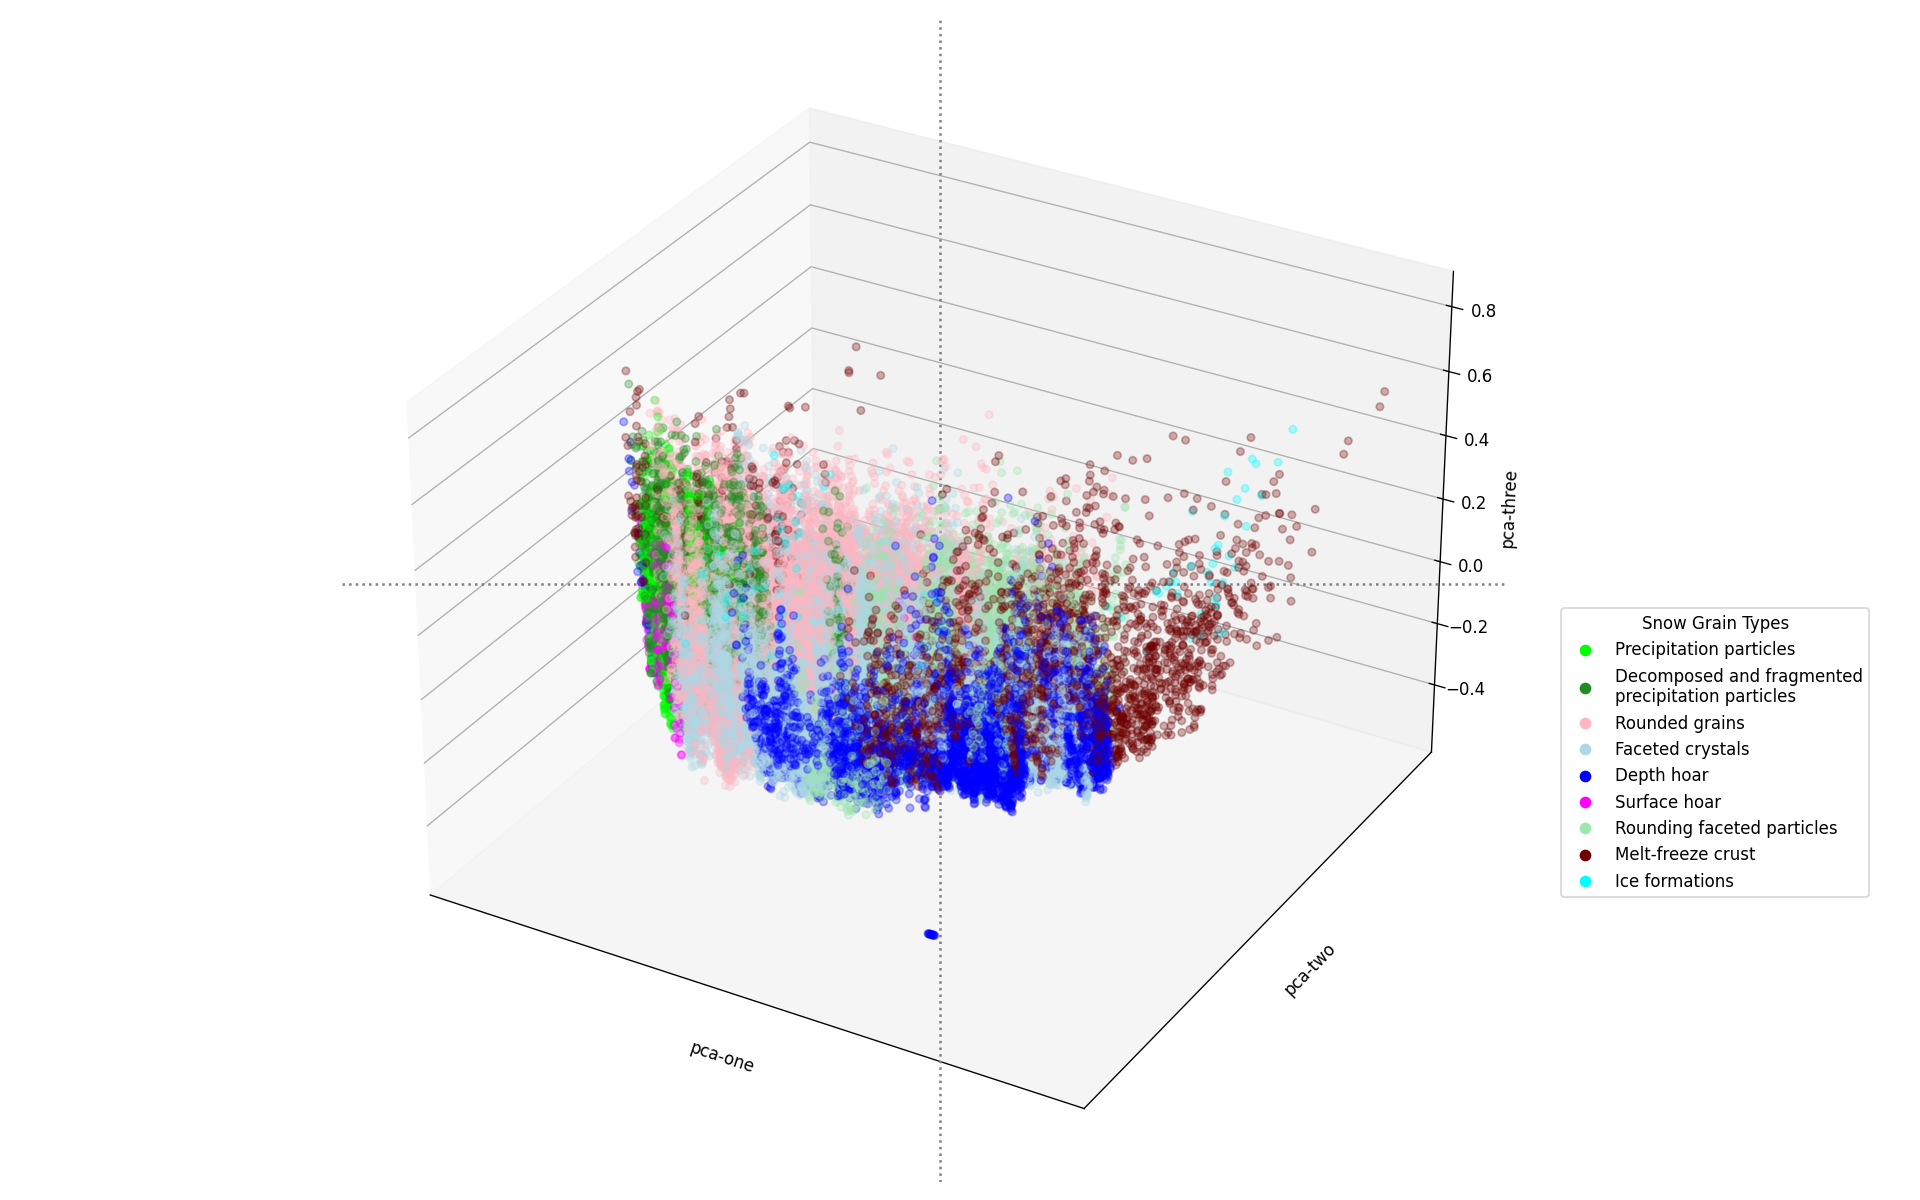
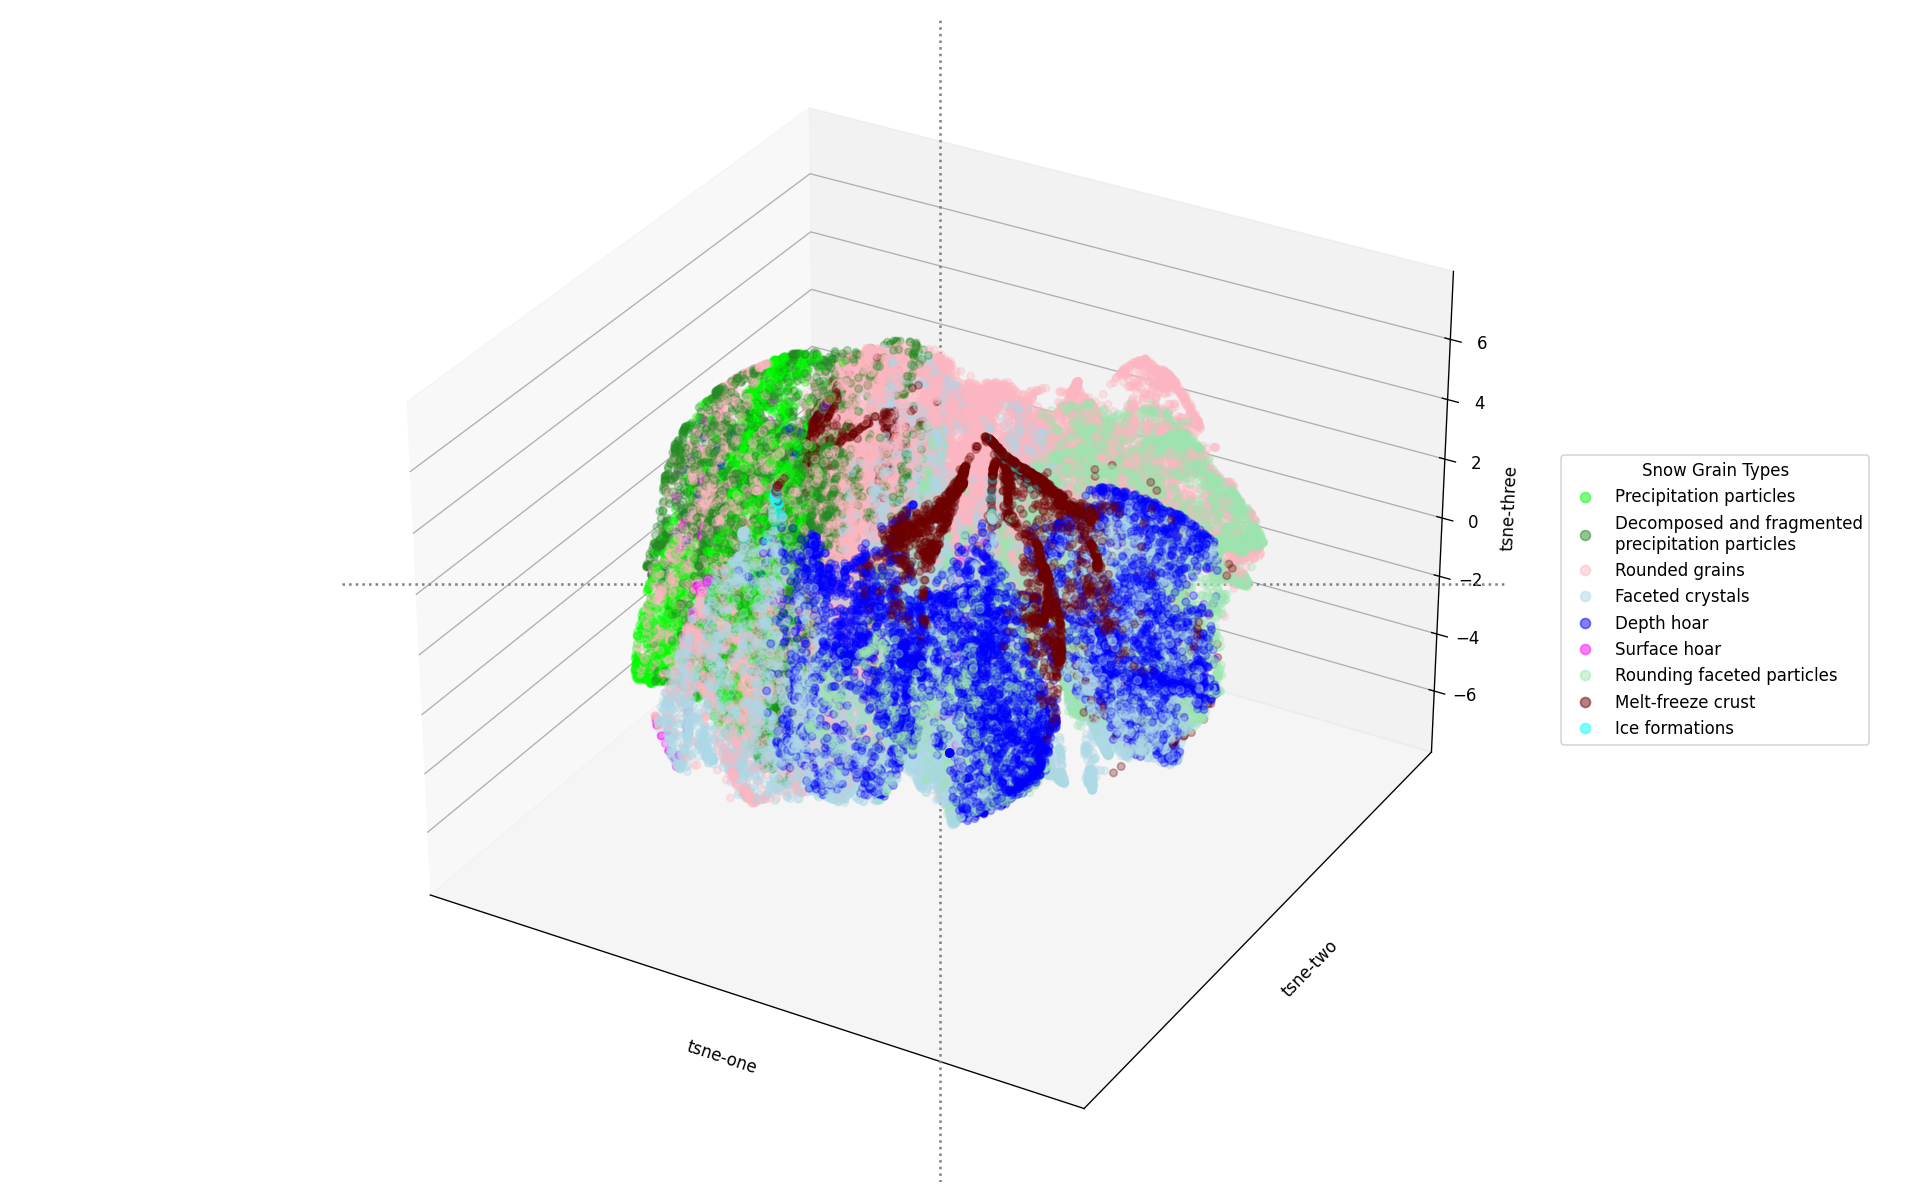
visualization pca, tsne

diff --git a/visualization/run_visualization.py b/visualization/run_visualization.py
@@ -39,31 +39,32 @@ def visualize_normalized_data(smp):
     #plt.rcParams.update({"figure.dpi": 180})
     smp_profile_name = "S36M0335"
     # HOW BALANCED IS THE LABELLED DATASET?
-    plot_balancing(smp, file_name=path+"class_balance_normalized.svg", title=None)
-    # SHOW THE DATADISTRIBUTION OF ALL FEATURES
-    pairwise_features(smp, features=["label", "distance", "var_force", "mean_force", "delta_4", "lambda_4", "gradient"], samples=200, file_name=path+"pairwise_features.png")
-    # SHOW HEATMAP OF ALL FEATURES (with what are the labels correlated the most?)
-    corr_heatmap(smp, labels=[3, 4, 5, 6, 12], file_name=path+"corr_heatmap_all.png") #removed , 16, 17
-    # SHOW HEATMAP BETWEEN FEATURES
-    corr_heatmap(smp, labels=None, file_name=path+"corr_heatmap_features.png")
-    # Correlation does not help for categorical + continuous data - use ANOVA instead
-    # FEATURE "EXTRACTION"
-    anova(smp, file_name=path+"anova.txt", tablefmt="latex_raw") # latex_raw also possible
-    # RANDOM FOREST FEATURE EXTRACTION
-    forest_extractor(smp, file_name=path+"forest_features.txt", plot=False, tablefmt="latex_raw")
-    # PLOT ALL NORMALIZED FEATURES AS LINES IN ONE PROFILE
-    smp_features(smp, smp_name=smp_profile_name, features=["mean_force", "var_force", "min_force_4", "max_force_4", "L_12", "gradient"], file_name=path+smp_profile_name+"_features.png")
-    plt.rcParams.update({"figure.dpi": 250})
-    # PLOT BOGPLOT
-    bog_plot(smp, file_name=path+"bog_plot.png")
-    # PLOT ALL IN ONE PLOT
-    all_in_one_plot(smp, title=None, file_name=path+"overview_data_norm.png", profile_name=smp_profile_name)
+    # plot_balancing(smp, file_name=path+"class_balance_normalized.svg", title=None)
+    # # SHOW THE DATADISTRIBUTION OF ALL FEATURES
+    # pairwise_features(smp, features=["label", "distance", "var_force", "mean_force", "delta_4", "lambda_4", "gradient"], samples=200, file_name=path+"pairwise_features.png")
+    # # SHOW HEATMAP OF ALL FEATURES (with what are the labels correlated the most?)
+    # corr_heatmap(smp, labels=[3, 4, 5, 6, 12], file_name=path+"corr_heatmap_all.png") #removed , 16, 17
+    # # SHOW HEATMAP BETWEEN FEATURES
+    # corr_heatmap(smp, labels=None, file_name=path+"corr_heatmap_features.png")
+    # # Correlation does not help for categorical + continuous data - use ANOVA instead
+    # # FEATURE "EXTRACTION"
+    # anova(smp, file_name=path+"anova.txt", tablefmt="latex_raw") # latex_raw also possible
+    # # RANDOM FOREST FEATURE EXTRACTION
+    # forest_extractor(smp, file_name=path+"forest_features.txt", plot=False, tablefmt="latex_raw")
+    # # PLOT ALL NORMALIZED FEATURES AS LINES IN ONE PROFILE
+    # smp_features(smp, smp_name=smp_profile_name, features=["mean_force", "var_force", "min_force_4", "max_force_4", "L_12", "gradient"], file_name=path+smp_profile_name+"_features.png")
+    # plt.rcParams.update({"figure.dpi": 250})
+    # # PLOT BOGPLOT
+    # bog_plot(smp, file_name=path+"bog_plot.png")
+    # # PLOT ALL IN ONE PLOT
+    # all_in_one_plot(smp, title=None, file_name=path+"overview_data_norm.png", profile_name=smp_profile_name)
 
     # PCA and TSNE
-    pca(smp, n=24, biplot=False, file_name=path)
-    tsne(smp, file_name=path)
-
-    tsne_pca(smp, n=5, file_name=path)
+    #pca(smp, n=24, biplot=False, file_name=path + "pca")
+    #tsne(smp, file_name=path + "tsne")
+    print("finished tsne")
+    tsne_pca(smp, n=5, file_name=path + "tsne_pca")
+    exit(0)
 
 def visualize_original_data(smp):
     """ Visualizing some things of the original data

diff --git a/visualization/plot_profile.py b/visualization/plot_profile.py
@@ -12,7 +12,7 @@ import matplotlib.colors as mcolors
 
 from tqdm import tqdm
 from data_handling.data_preprocessing import idx_to_int
-from data_handling.data_parameters import COLORS, ANTI_LABELS, ANTI_LABELS_LONG, LABELS
+from data_handling.data_parameters import COLORS, ANTI_LABELS, ANTI_LABELS_LONG, LABELS, USED_LABELS
 
 # TODO
 # make function to compare predicted profiles where we dont have the ground truth!
@@ -99,7 +99,7 @@ def ini_bogplots(preds, chosen_profiles, model_name, file_name):
     # producing the legend for the labels
     # remove /n from antilabels
     # Snow Grain Legend
-    all_labels = [6.0, 3.0, 4.0, 12.0, 5.0, 16.0] # no rare
+    all_labels = USED_LABELS # no rare
     anti_colors = {ANTI_LABELS_LONG[key] : value for key, value in COLORS.items() if key in all_labels}
     markers = [plt.Line2D([0,0],[0,0],color=color, marker='o', linestyle='') for color in anti_colors.values()]
 
@@ -287,7 +287,7 @@ def compare_bogplots(all_smps, model_names, file_name="output/results/compare_bo
     # producing the legend for the labels
     # remove /n from antilabels
     # Snow Grain Legend
-    all_labels = [6.0, 3.0, 4.0, 12.0, 5.0] #removed 16,17
+    all_labels = USED_LABELS
     anti_colors = {ANTI_LABELS_LONG[key] : value for key, value in COLORS.items() if key in all_labels}
     # two markers: correct and wrongly predicted
     markers = [(plt.Line2D([0,0],[0,0],color=color, marker='o', linestyle=''), plt.Line2D([0,0],[0,0], color=color, marker='o', linestyle='', alpha=0.25)) for color in anti_colors.values()]
@@ -397,7 +397,7 @@ def compare_model_and_profiles(smp_trues, smp_preds, smp_names, model_names, tit
 
     # Snow Grain Legend
     # grain types
-    all_labels = [6.0, 3.0, 4.0, 12.0, 5.0] #changed here, no labels 16, 17, just removed
+    all_labels = USED_LABELS
     anti_colors = {ANTI_LABELS_LONG[key] : value for key, value in COLORS.items() if key in all_labels}
     markers = [plt.Line2D([0,0],[0,0],color=color, marker='o', linestyle='', alpha=0.5) for color in anti_colors.values()]
     # line markers

diff --git a/visualization/plot_dim_reduction.py b/visualization/plot_dim_reduction.py
@@ -78,7 +78,8 @@ def pca(smp, n=3, dim="both", biplot=True, title="", file_name="output/plots_dat
 
     # 3d plot
     if dim == "3d" or dim == "both":
-        ax = plt.figure(figsize=(16,10)).gca(projection="3d")
+        fig = plt.figure(figsize=(16,10))
+        ax = fig.add_subplot(projection='3d')
         color_labels = [COLORS[label] for label in smp_with_pca["label"]]
         g = ax.scatter(xs=smp_with_pca["pca-one"], ys=smp_with_pca["pca-two"], zs=smp_with_pca["pca-three"], c=color_labels, alpha=0.3)
         ax.set_xlabel("pca-one")
@@ -142,7 +143,8 @@ def tsne(smp, dim="both", title="", file_name="outputs/plots_data/tsne"):
         tsne_results = tsne.fit_transform(x)
         smp_with_tsne = pd.DataFrame({"tsne-one": tsne_results[:, 0], "tsne-two": tsne_results[:, 1], "tsne-three": tsne_results[:, 2], "label": y})
 
-        ax = plt.figure(figsize=(16,10)).gca(projection="3d")
+        fig = plt.figure(figsize=(16,10))
+        ax = fig.add_subplot(projection='3d')
         color_labels = [COLORS[label] for label in smp_with_tsne["label"]]
         ax.scatter(xs=smp_with_tsne["tsne-one"], ys=smp_with_tsne["tsne-two"], zs=smp_with_tsne["tsne-three"], c=color_labels, alpha=0.3)
         ax.set_xlabel("tsne-one")
@@ -207,7 +209,8 @@ def tsne_pca(smp, n=3, dim="both", title="", file_name="output/plots_data/pca_ts
         tsne_pca_results = tsne.fit_transform(pca_result)
         smp_pca_tsne = pd.DataFrame({"tsne-one": tsne_pca_results[:, 0], "tsne-two": tsne_pca_results[:, 1], "tsne-three": tsne_pca_results[:, 2], "label": y})
 
-        ax = plt.figure(figsize=(16,10)).gca(projection="3d")
+        fig = plt.figure(figsize=(16,10))
+        ax = fig.add_subplot(projection='3d')
         color_labels = [COLORS[label] for label in smp_pca_tsne["label"]]
         ax.scatter(xs=smp_pca_tsne["tsne-one"], ys=smp_pca_tsne["tsne-two"], zs=smp_pca_tsne["tsne-three"], c=color_labels, alpha=0.3)
         ax.set_xlabel("tsne-one")

diff --git a/visualization/plot_data.py b/visualization/plot_data.py
@@ -464,15 +464,15 @@ def visualize_tree(rf, x_train, y_train, feature_names=None, tree_idx=0, min_sam
 
     if (x_train is not None) and (y_train is not None):
         # deciding directly which label gets which decision tree label
-        y_train[y_train==6.0] = 0
-        y_train[y_train==3.0] = 1
-        y_train[y_train==5.0] = 2
-        y_train[y_train==12.0] = 3
-        y_train[y_train==4.0] = 4
+        #y_train[y_train==6.0] = 0
+        #y_train[y_train==3.0] = 1
+        #y_train[y_train==5.0] = 2
+        #y_train[y_train==12.0] = 3
+        #y_train[y_train==4.0] = 4
         #y_train[y_train==17.0] = 5
         #y_train[y_train==16.0] = 6
-        anti_labels = {0:"rg", 1:"pp", 2: "df", 3:"mfcr", 4:"ppgp"} #removed , 5:"rare", 6:"pp"
-        class_names = [anti_labels[label] for label in y_train.unique()]
+        anti_labels = [ANTI_LABELS[label] for label in y_train.unique()]
+        #class_names = [anti_labels[label] for label in y_train.unique()]
 
         feature_names = x_train.columns
 

diff --git a/data_handling/data_parameters.py b/data_handling/data_parameters.py
@@ -7,9 +7,10 @@ parentdir = Path(__file__).parent.parent.as_posix()
 SMP_LOC = parentdir + "/data/smp_pnt_files/"
 EXP_LOC = parentdir + "/data/smp_profiles/"
 
-#To dos von Felix &Tamara
-#TODO: ATTENTION! update corr_heatmap() in run_visualization if LABELS are added!
-#TODO: ATTENTION! update visualize_tree() in plot_data if LABELS are added!
+# set used labels 
+USED_LABELS = [3.0, 4.0, 5.0, 6.0, 7.0, 8.0, 9.0, 10.0, 11.0, 12.0, 13.0]
+#simply set to zero if you have no rare labels! 
+RARE_LABELS = []
 
 LABELS = {
     "not_labelled": 0,

diff --git a/models/run_models.py b/models/run_models.py
@@ -213,7 +213,7 @@ def preprocess_dataset(smp_file_name, output_file=None, visualize=False, sample_
     #smp_org = remove_nans_mosaic(smp_org)
 
     # 2. Visualize before normalization
-    if visualize: visualize_original_data(smp_org)
+    #if visualize: visualize_original_data(smp_org)
 
     # 3. Normalize
     smp = normalize_mosaic(smp_org)
